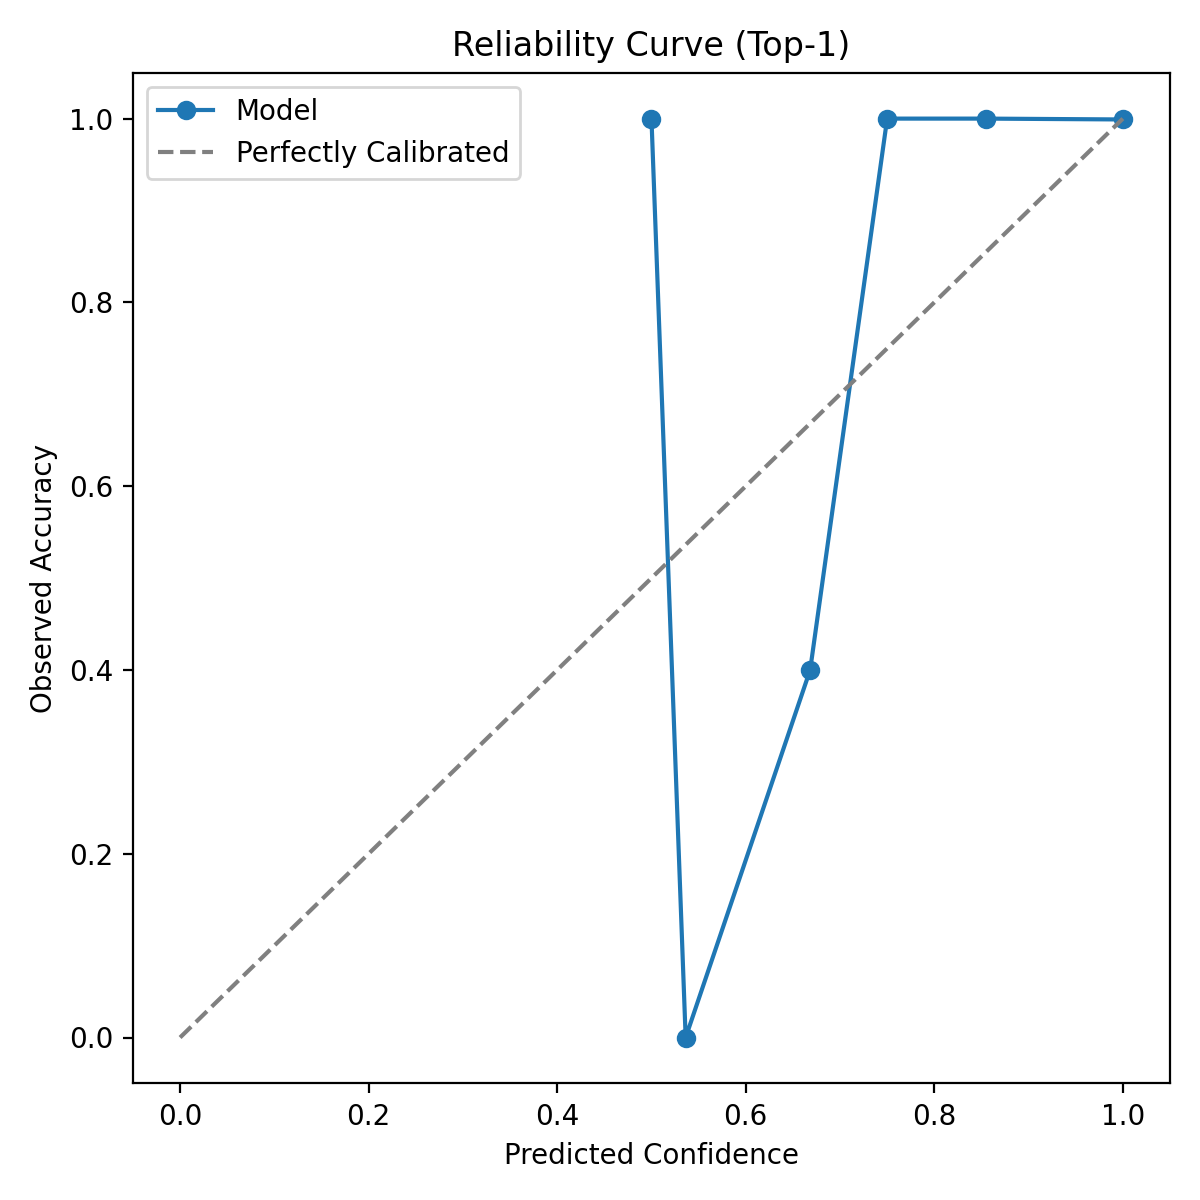
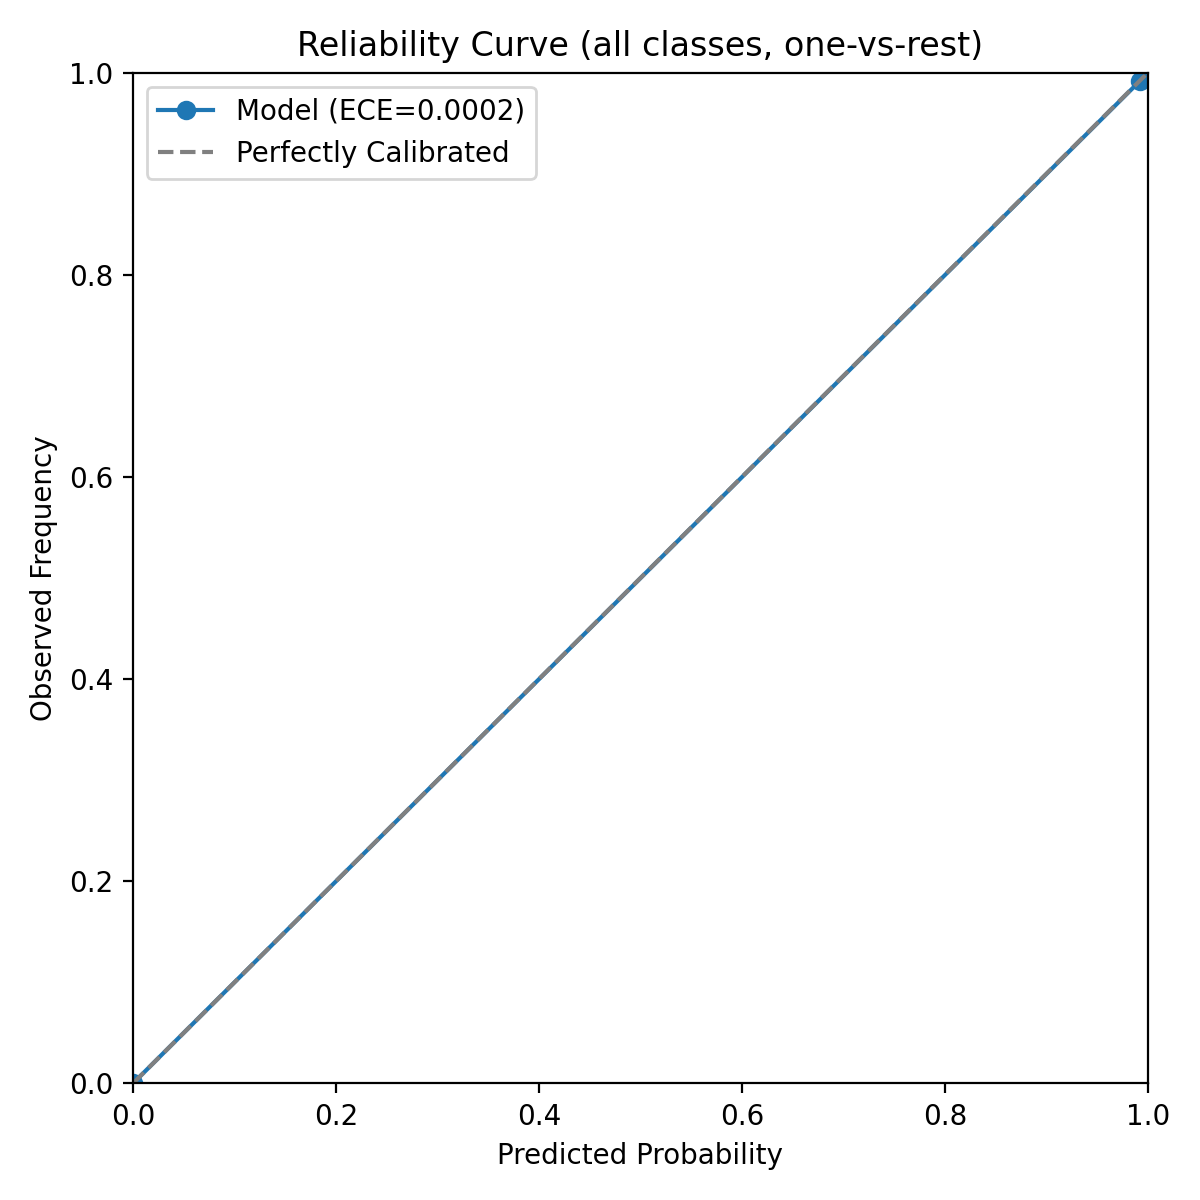
Enhance reliability curve plotting: update calibration method to use quantile strategy, include ECE in the plot label, and improve axis labels for better clarity.

diff --git a/scripts/generate_results_figures.py b/scripts/generate_results_figures.py
@@ -61,17 +61,25 @@ def plot_confusion_matrix(y_true, y_pred, label_names, output_path):
 
 
 def plot_reliability_curve(y_true, proba, output_path):
-    top1_pred = proba.argmax(axis=1)
-    correct = (top1_pred == y_true).astype(int)
-    confidences = proba.max(axis=1)
-    frac_pos, mean_pred = calibration_curve(correct, confidences, n_bins=10, strategy="uniform")
+    n_classes = proba.shape[1]
+    y_bin = np.zeros_like(proba, dtype=int)
+    y_bin[np.arange(len(y_true)), y_true] = 1
+    probs_flat = proba.ravel()
+    labels_flat = y_bin.ravel()
+    frac_pos, mean_pred = calibration_curve(
+        labels_flat, probs_flat, n_bins=15, strategy="quantile"
+    )
+    ece = float(np.average(np.abs(frac_pos - mean_pred), weights=None))
+
     fig, ax = plt.subplots(figsize=(6, 6))
-    ax.plot(mean_pred, frac_pos, marker="o", label="Model")
+    ax.plot(mean_pred, frac_pos, marker="o", label=f"Model (ECE={ece:.4f})")
     ax.plot([0, 1], [0, 1], linestyle="--", color="gray", label="Perfectly Calibrated")
-    ax.set_xlabel("Predicted Confidence")
-    ax.set_ylabel("Observed Accuracy")
-    ax.set_title("Reliability Curve (Top-1)")
+    ax.set_xlabel("Predicted Probability")
+    ax.set_ylabel("Observed Frequency")
+    ax.set_title(f"Reliability Curve (all classes, one-vs-rest)")
     ax.legend()
+    ax.set_xlim(0, 1)
+    ax.set_ylim(0, 1)
     fig.tight_layout()
     output_path.parent.mkdir(parents=True, exist_ok=True)
     fig.savefig(output_path, dpi=200)
